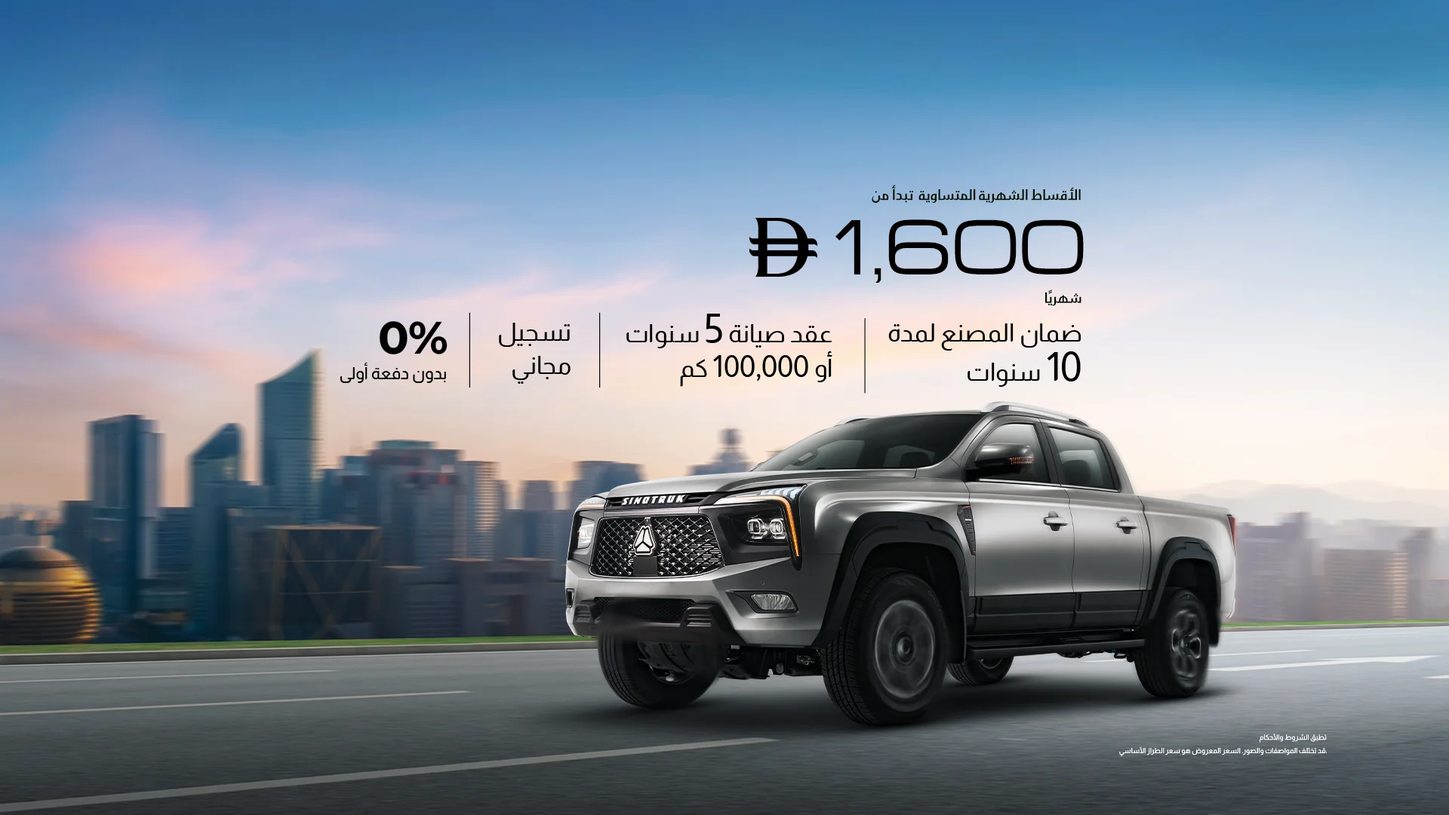
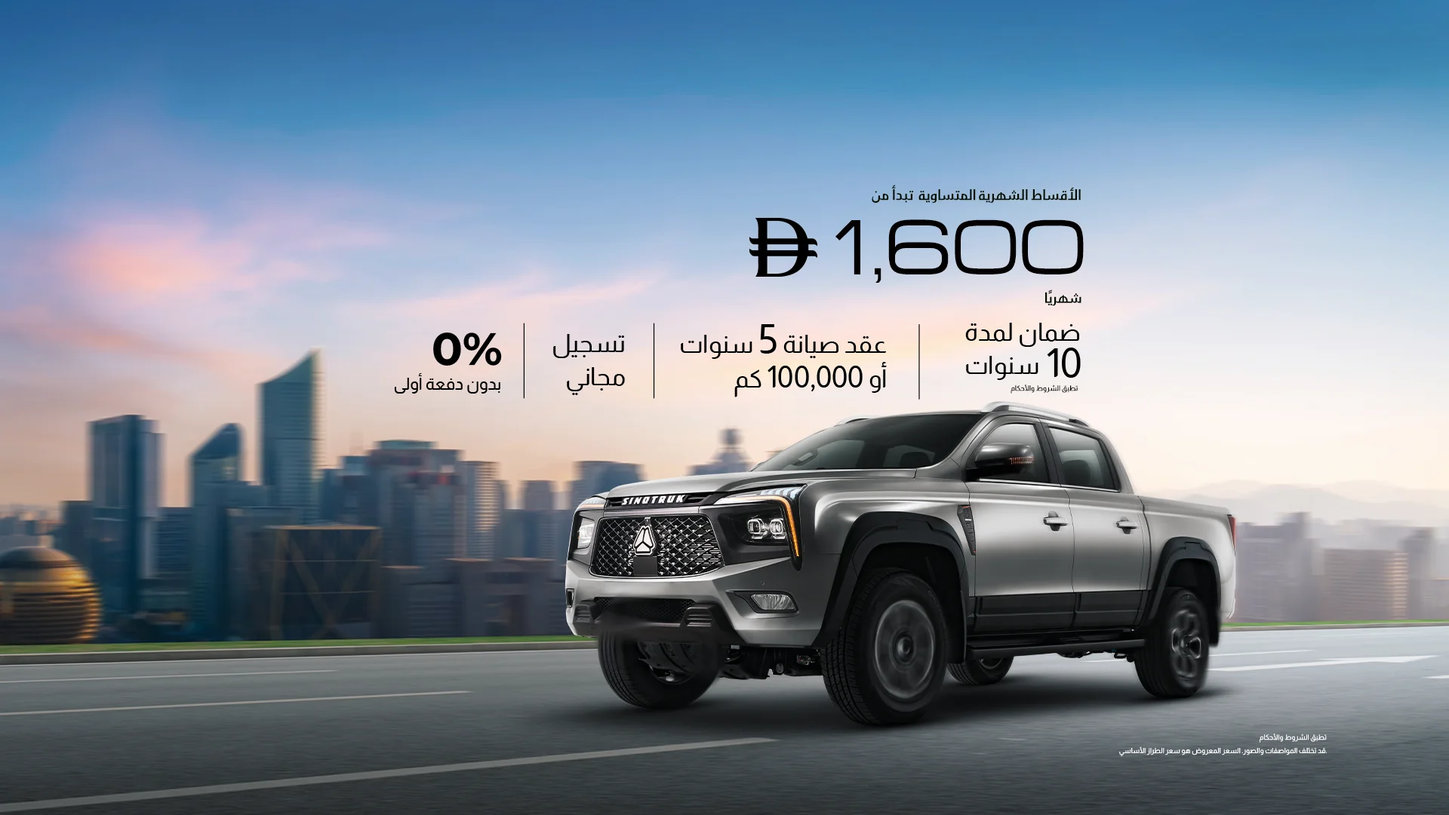
update 103

Changed region(s): [[0.25, 0.3969, 0.75, 0.4884]]

diff --git a/app/ar/(arabic-models)/models/bolden-s9-off-road/page.jsx b/app/ar/(arabic-models)/models/bolden-s9-off-road/page.jsx
@@ -53,9 +53,9 @@ export default function Page() {
         <WarrantyDisclaimerSection
                   leftImage="/assets/popup/s9-off-road-popup.webp"
                   title="ضمان وخدمات سينوترك بولدن"
-                  description="تأتي سيارة سينوتراك بولدن S9 للطرق الوعرة بضمان مصنع لمدة 10 سنوات، إضافة إلى باقة صيانة شاملة لمدة 5 سنوات أو 100,000 كيلومتر، أيهما يأتي أولاً، مما يجعلها خيارًا قويًا للسائقين الذين يبحثون عن المتانة والقدرة والقيمة طويلة الأمد في دولة الإمارات العربية المتحدة. يجمع طراز Bolden S9 بين قدرات 4x4 القوية على الطرق الوعرة وراحة متطورة وميزات عملية متعددة داخل الإمارات."
+                  description="تأتي سيارة سينوتراك بولدن S9 للطرق الوعرة بضمان لمدة 10 سنوات (5 سنوات من الشركة المصنعة و5 سنوات من شركة رويال سويس لتجارة السيارات)، إضافة إلى باقة صيانة شاملة لمدة 5 سنوات أو 100,000 كيلومتر، أيهما يأتي أولاً، مما يجعلها خيارًا قويًا للسائقين الذين يبحثون عن المتانة والقدرة والقيمة طويلة الأمد في دولة الإمارات العربية المتحدة. يجمع طراز Bolden S9 بين قدرات 4x4 القوية على الطرق الوعرة وراحة متطورة وميزات عملية متعددة داخل الإمارات."
                   description2="قم بزيارة صالة عرض رويال سويس اوتو تريدينج لمعرفة المزيد حول سينوتراك بولدن S9 Off-Road للطرق الوعرة ، واستكشاف مزايا الضمان والخدمات، وحجز تجربة قيادة، أو زيارة الموقع الرسمي mysinotruk.ae للحصول على التفاصيل الكاملة."
-                  description3="تأتي سيارة سينوتراك بولدن S9 للطرق الوعرة بضمان مصنع لمدة 10 سنوات، إضافة إلى باقة صيانة شاملة لمدة 5 سنوات أو 100,000 كيلومتر (أيهما يأتي أولاً)، ما يجعلها خيارًا مثاليًا ضمن فئة بيك أب ديزل 4x4 في الإمارات للسائقين الباحثين عن المتانة العالية، والأداء القوي في الظروف الصحراوية، وقيمة ملكية طويلة الأمد."
+                  description3="تأتي سيارة سينوتراك بولدن S9 للطرق الوعرة بضمان لمدة 10 سنوات (5 سنوات من الشركة المصنعة و5 سنوات من شركة رويال سويس لتجارة السيارات)، إضافة إلى باقة صيانة شاملة لمدة 5 سنوات أو 100,000 كيلومتر (أيهما يأتي أولاً)، ما يجعلها خيارًا مثاليًا ضمن فئة بيك أب ديزل 4x4 في الإمارات للسائقين الباحثين عن المتانة العالية، والأداء القوي في الظروف الصحراوية، وقيمة ملكية طويلة الأمد."
                   description4="يجمع طراز Bolden S9 بين قدرات الدفع الرباعي 4x4 المتقدمة على الطرق الوعرة لتناسب القيادة في الصحراء والبيئات القاسية، ومستوى راحة متطور للاستخدام اليومي، إلى جانب تجهيزات عملية تلائم احتياجات العمل والمغامرات، مما يجعله منافسًا قويًا في سوق سيارات البيك أب 4x4 متعددة الاستخدامات في الإمارات."
                   description5="للمزيد من التفاصيل حول المواصفات، خيارات الضمان والصيانة، وأسعار سيارات البيك أب التجارية والطرق الوعرة في الإمارات، يمكنكم زيارة صالة العرض المعتمدة أو الدخول إلى الموقع الرسمي mysinotruk.ae للاطلاع على المعلومات الكاملة وحجز تجربة قيادة."
                 />

diff --git a/app/ar/(arabic-models)/models/bolden-s6-commercial/page.jsx b/app/ar/(arabic-models)/models/bolden-s6-commercial/page.jsx
@@ -56,7 +56,7 @@ export default function Page() {
         <WarrantyDisclaimerSection
                                   leftImage="/assets/popup/s6commercial-popup.webp"
                                   title="ضمان وخدمات سينوترك بولدن"
-                                  description="تحظى سيارات البيك أب التجارية سينوتراك بولدن ببرنامج ملكية متكامل مصمم لدعم الأداء طويل الأمد وتعزيز الاعتمادية التشغيلية في سوق المركبات التجارية في الإمارات. تأتي المركبة بضمان مصنع لمدة 10 سنوات، إضافة إلى باقة صيانة شاملة لمدة 5 سنوات أو 100,000 كيلومتر (أيهما يأتي أولًا)، ما يوفر قيمة تنافسية قوية لرواد الأعمال، وأصحاب الشركات، ومديري أساطيل البيك أب التجارية الباحثين عن الكفاءة وتقليل تكاليف التشغيل."
+                                  description="تحظى سيارات البيك أب التجارية سينوتراك بولدن ببرنامج ملكية متكامل مصمم لدعم الأداء طويل الأمد وتعزيز الاعتمادية التشغيلية في سوق المركبات التجارية في الإمارات. تأتي المركبة بضمان لمدة 10 سنوات (5 سنوات من الشركة المصنعة و5 سنوات من شركة رويال سويس لتجارة السيارات)، إضافة إلى باقة صيانة شاملة لمدة 5 سنوات أو 100,000 كيلومتر (أيهما يأتي أولًا)، ما يوفر قيمة تنافسية قوية لرواد الأعمال، وأصحاب الشركات، ومديري أساطيل البيك أب التجارية الباحثين عن الكفاءة وتقليل تكاليف التشغيل."
                                   description2="يساهم هذا البرنامج في تعزيز ثقة العملاء ضمن قطاع سيارات البيك أب للأعمال في الإمارات، من خلال توفير دعم فني وخدمات ما بعد البيع تضمن استمرارية الأداء في مختلف بيئات العمل."
                                   description3="للاطلاع على مزايا الضمان والخدمات، ومعرفة المواصفات والأسعار الخاصة بفئة البيك أب التجارية والعملية في الإمارات، يمكن زيارة صالة العرض المعتمدة أو الدخول إلى الموقع الرسمي mysinotruk.ae للحصول على أحدث المعلومات حول الطرازات والعروض المتاحة وحجز تجربة قيادة."
                                 />

diff --git a/app/ar/(arabic-models)/models/bolden-s7-passenger/page.jsx b/app/ar/(arabic-models)/models/bolden-s7-passenger/page.jsx
@@ -56,7 +56,7 @@ export default function Page() {
         <WarrantyDisclaimerSection
                           leftImage="/assets/popup/s7passenger-popup.webp"
                           title="ضمان وخدمات سينوترك بولدن"
-                          description="تم تصميم طراز الركاب سينوتراك بولدن S7 ليواكب احتياجات القيادة اليومية بثقة واعتمادية طويلة الأمد في سوق سيارات البيك أب في الإمارات. يأتي هذا الطراز مع ضمان مصنع لمدة 10 سنوات، إضافة إلى باقة صيانة شاملة لمدة 5 سنوات أو 100,000 كيلومتر (أيهما يأتي أولًا)، ما يجعله خيارًا تنافسيًا ضمن فئة بيك أب عائلية متعددة الاستخدامات المناسبة للاستخدام الشخصي والمهني."
+                          description="تم تصميم طراز الركاب سينوتراك بولدن S7 ليواكب احتياجات القيادة اليومية بثقة واعتمادية طويلة الأمد في سوق سيارات البيك أب في الإمارات. يأتي هذا الطراز مع ضمان لمدة 10 سنوات (5 سنوات من الشركة المصنعة و5 سنوات من شركة رويال سويس لتجارة السيارات)، إضافة إلى باقة صيانة شاملة لمدة 5 سنوات أو 100,000 كيلومتر (أيهما يأتي أولًا)، ما يجعله خيارًا تنافسيًا ضمن فئة بيك أب عائلية متعددة الاستخدامات المناسبة للاستخدام الشخصي والمهني."
                           description2="يجمع الطراز بين قوة الأداء في فئة ديزل بيك أب 4x4 والتصميم الداخلي المريح الذي يلائم التنقل اليومي، والسفر العائلي، والرحلات الطويلة داخل المدن وعلى الطرق السريعة وفي البيئات الصحراوية. كما يوفر توازنًا بين القدرة العملية والمتانة، ليخدم احتياجات الأفراد ورواد الأعمال الباحثين عن سيارة بيك أب عملية واقتصادية في الإمارات."
                           description3="للمزيد من المعلومات حول المواصفات، الأسعار، وخيارات الضمان والصيانة لسيارات البيك أب التجارية والركاب، يمكنكم زيارة صالة عرض رويال سويس أوتو تريدنج أو الدخول إلى الموقع الرسمي mysinotruk.ae للاطلاع على التفاصيل الكاملة وحجز تجربة قيادة."
                         />

diff --git a/components/ar/home/AboutSinotrukSection.jsx b/components/ar/home/AboutSinotrukSection.jsx
@@ -7,11 +7,11 @@ export default function AboutSinotrukSection() {
       <div className={styles.container}>
         <div className={styles.left}>
           <h2 className={styles.title}>
-            حول سينوترك بولدن الإمارات
+            حول سينوترك بولدن ابوظبي - الإمارات العربية المتحدة
           </h2>
 
           <p className={styles.description}>
-             قامت شركة سينوتراك (Sinotruk) بتعيين رويال سويس أوتو تريدنج (Royal Swiss Auto Trading) كموزع حصري لمجموعة سيارات بيك اب سينوترك بولدن (Sinotruk Bolden) في دولة الإمارات العربية المتحدة، مما يعزز التزام العلامة التجارية طويل الأمد بسوق المركبات التجارية وسيارات الطرق الوعرة وسيارات الدفع الرباعي 4x4 والبيك اب في الدولة. وبدعم من عقود من الاستثمار العالمي في التصنيع المتقدم، والبحث والتطوير الداخلي، والشراكات الهندسية الدولية، تقدم سينوتراك خبرة مثبتة في المحركات، وأنظمة نقل الحركة، وأنظمة السلامة، ومتانة الهيكل إلى المنطقة.
+             قامت شركة سينوتراك (Sinotruk) بتعيين رويال سويس أوتو تريدنج (Royal Swiss Auto Trading) كموزع حصري لمجموعة سيارات بيك اب سينوترك بولدن (Sinotruk Bolden) في ابوظبي - الإمارات العربية المتحدة، مما يعزز التزام العلامة التجارية طويل الأمد بسوق المركبات التجارية وسيارات الطرق الوعرة وسيارات الدفع الرباعي 4x4 والبيك اب في الدولة. وبدعم من عقود من الاستثمار العالمي في التصنيع المتقدم، والبحث والتطوير الداخلي، والشراكات الهندسية الدولية، تقدم سينوتراك خبرة مثبتة في المحركات، وأنظمة نقل الحركة، وأنظمة السلامة، ومتانة الهيكل إلى المنطقة.
           </p>
 
           <p className={styles.description}>
@@ -23,7 +23,7 @@ export default function AboutSinotrukSection() {
           <div className={styles.imageWrap}>
             <Image
               src="/assets/home/sinotruk-about-us.webp"
-              alt="About Sinotruk Bolden UAE"
+              alt="About Sinotruk Bolden Abudhabi - UAE"
               fill
               className={styles.image}
               priority

diff --git a/app/(pages)/about-us/page.js b/app/(pages)/about-us/page.js
@@ -46,11 +46,11 @@ export default function Page() {
             </div>
 
             <div className={styles.topContent}>
-              <h3 className={styles.mainHeading}>SINOTRUK BOLDEN UAE</h3>
+              <h3 className={styles.mainHeading}>SINOTRUK BOLDEN ABUDHABI - UAE</h3>
 
               <div className={styles.topColumns}>
                 <p>
-                  Sinotruk has designated Royal Swiss Auto Trading as the exclusive distributor of the Sinotruk Bolden range in the UAE, reinforcing the brand’s long-term commitment to the region’s commercial and off-road vehicle market. Backed by decades of global investment in advanced manufacturing, in-house research and development, and international engineering partnerships, Sinotruk brings proven expertise in engines, drivetrains, safety systems, and chassis durability to the region.
+                  Sinotruk has designated Royal Swiss Auto Trading as the exclusive distributor of the Sinotruk Bolden range in the Abudhabi - UAE, reinforcing the brand’s long-term commitment to the region’s commercial and off-road vehicle market. Backed by decades of global investment in advanced manufacturing, in-house research and development, and international engineering partnerships, Sinotruk brings proven expertise in engines, drivetrains, safety systems, and chassis durability to the region.
                 </p>
 
                 <p>
@@ -146,7 +146,7 @@ export default function Page() {
               </h3>
 
               <p>
-                Royal Swiss Auto Trading is a UAE-based automotive enterprise
+                Royal Swiss Auto Trading is a Abudhabi, UAE-based automotive enterprise
                 founded on the principles of quality, reliability, and long-term
                 customer confidence. With a growing footprint across the region,
                 the company operates at the intersection of automotive retail,

diff --git a/app/models/bolden-s7-passenger/page.jsx b/app/models/bolden-s7-passenger/page.jsx
@@ -67,7 +67,7 @@ export default function Page() {
         <WarrantyDisclaimerSection
                   leftImage="/assets/popup/s7passenger-popup.webp"
                   title="Sinotruk Bolden Warranty & Services"
-                  description="The Sinotruk Bolden S7 Passenger is designed for confident everyday driving and long-term dependability. It is offered with a 10-year manufacturer warranty, along with an inclusive 5-year or 100,000 km service package, whichever comes first, making it a compelling choice for both personal and professional use in the UAE. It blends robust capability with comfort-focused design for daily commutes, family travel, and extended journeys."
+                  description="The Sinotruk Bolden S7 Passenger is designed for confident everyday driving and long-term dependability. It is offered with a 10-year warranty (5 Year Manufacture & 5 Year Royal Swiss Auto Trading), along with an inclusive 5-year or 100,000 km service package, whichever comes first, making it a compelling choice for both personal and professional use in the UAE. It blends robust capability with comfort-focused design for daily commutes, family travel, and extended journeys."
                   description2="Visit Royal Swiss Auto Trading showroom to learn more about the Sinotruk Bolden Passenger, explore warranty and service benefits, and schedule a test drive."
                 />
 

diff --git a/components/home/AboutSinotrukSection.jsx b/components/home/AboutSinotrukSection.jsx
@@ -7,11 +7,11 @@ export default function AboutSinotrukSection() {
       <div className={styles.container}>
         <div className={styles.left}>
           <h2 className={styles.title}>
-            About Sinotruk Bolden UAE
+            About Sinotruk Bolden Abudhabi - UAE
           </h2>
 
           <p className={styles.description}>
-            Sinotruk has designated Royal Swiss Auto Trading as the exclusive distributor of the Sinotruk Bolden range in the UAE, reinforcing the brand’s long-term commitment to the region’s commercial and off-road vehicle market. Backed by decades of global investment in advanced manufacturing, in-house research and development, and international engineering partnerships, Sinotruk brings proven expertise in engines, drivetrains, safety systems, and chassis durability to the region.
+            Sinotruk has designated Royal Swiss Auto Trading as the exclusive distributor of the Sinotruk Bolden range in the Abudhabi - UAE, reinforcing the brand’s long-term commitment to the region’s commercial and off-road vehicle market. Backed by decades of global investment in advanced manufacturing, in-house research and development, and international engineering partnerships, Sinotruk brings proven expertise in engines, drivetrains, safety systems, and chassis durability to the region.
           </p>
 
           <p className={styles.description}>

diff --git a/app/models/bolden-s6-commercial/page.jsx b/app/models/bolden-s6-commercial/page.jsx
@@ -67,7 +67,7 @@ export default function Page() {
         <WarrantyDisclaimerSection
                           leftImage="/assets/popup/s6commercial-popup.webp"
                           title="Sinotruk Bolden Warranty & Services"
-                          description="The Sinotruk Bolden Commercial is backed by a detailed ownership program designed to support long-term performance and operational reliability. The vehicle comes with a 10-year manufacturer warranty, along with an inclusive 5-year or 100,000 km service package, whichever comes first, offering strong value for commercial operators and fleet customers across the UAE."
+                          description="The Sinotruk Bolden Commercial is backed by a detailed ownership program designed to support long-term performance and operational reliability. The vehicle comes with a 10-year warranty (5 Year Manufacture & 5 Year Royal Swiss Auto Trading), along with an inclusive 5-year or 100,000 km service package, whichever comes first, offering strong value for commercial operators and fleet customers across the UAE."
                           description2="Visit Royal Swiss Auto Trading showroom to learn more about the Sinotruk Bolden Commercial, explore warranty and service benefits, and schedule a test drive."
                         />
 

diff --git a/components/ar/home/WhoWeAreSection.jsx b/components/ar/home/WhoWeAreSection.jsx
@@ -10,7 +10,7 @@ export default function WhoWeAreSection() {
         <div className={styles.titlebox}>
             <h2 id="who-title" className={styles.title}>من نحن</h2>
             <p className={styles.kicker}>
-              نحن شركة رويال سويس أوتو تريدينغ، الموزع المعتمد لشركة سينوتراك في الإمارات العربية المتحدة. نحن نقدم مركبات مصممة لتوفير القوة والراحة والموثوقية. نحن وجهتك المثالية للحصول على مركبات عالمية المستوى ودعم ما بعد البيع الاحترافي.
+              نحن شركة رويال سويس أوتو تريدينغ، الموزع المعتمد لشركة سينوتراك في ابوظبي - الإمارات العربية المتحدة. نحن نقدم مركبات مصممة لتوفير القوة والراحة والموثوقية. نحن وجهتك المثالية للحصول على مركبات عالمية المستوى ودعم ما بعد البيع الاحترافي.
             </p>
             <p className={styles.kicker2}>
               اكتشف مركبات بولدن المصممة للعمل والعائلة والمغامرة.

diff --git a/app/models/bolden-s9-off-road/page.jsx b/app/models/bolden-s9-off-road/page.jsx
@@ -63,7 +63,7 @@ export default function Page() {
       <WarrantyDisclaimerSection
         leftImage="/assets/popup/s9-off-road-popup.webp"
         title="Sinotruk Bolden Warranty & Services"
-        description="The Sinotruk Bolden S9 Off-Road comes with a 10-year manufacturer warranty and an inclusive 5-year or 100,000 km service package, whichever comes first, making it a strong choice for drivers who demand durability, capability, and long-term value in the UAE. Bolden S9 combines powerful off-road capability with refined comfort and practical utility features across the UAE."
+        description="The Sinotruk Bolden S9 Off-Road comes with a 10-year warranty (5 Year Manufacture & 5 Year Royal Swiss Auto Trading) and an inclusive 5-year or 100,000 km service package, whichever comes first, making it a strong choice for drivers who demand durability, capability, and long-term value in the UAE. Bolden S9 combines powerful off-road capability with refined comfort and practical utility features across the UAE."
         description2="Visit Royal Swiss Auto showroom to learn more about the Sinotruk Bolden Off-Road, explore warranty and service benefits, and schedule a test drive."
       />
 

diff --git a/components/ar/Footer.jsx b/components/ar/Footer.jsx
@@ -19,7 +19,7 @@ export default function FooterAr() {
               className={styles.logo}
             />
             <p className={styles.blurb}>
-              رويال سويس أوتو تريدينغ هي الوكيل والموزع المعتمد لشركة سينوتراك بولدن في الإمارات العربية المتحدة. تم تصميم مركباتنا الصالحة لجميع التضاريس لتقديم أداء عالٍ. استمتع بثقة في كل رحلة، مدعومة بدعم الخبراء.
+              رويال سويس أوتو تريدينغ هي الوكيل والموزع المعتمد لشركة سينوتراك بولدن في ابوظبي - الإمارات العربية المتحدة. تم تصميم مركباتنا الصالحة لجميع التضاريس لتقديم أداء عالٍ. استمتع بثقة في كل رحلة، مدعومة بدعم الخبراء.
             </p>
           </div>
 

diff --git a/components/home/WhoWeAreSection.jsx b/components/home/WhoWeAreSection.jsx
@@ -10,7 +10,7 @@ export default function WhoWeAreSection() {
         <div className={styles.titlebox}>
             <h2 id="who-title" className={styles.title}>WHO WE ARE</h2>
             <p className={styles.kicker}>
-              We are Royal Swiss Auto Trading, the authorized Sinotruk dealer in the UAE. We deliver vehicles designed for power, comfort, and reliability.Your destination for world-class vehicles and professional after-sales support.
+              We are Royal Swiss Auto Trading, the authorized Sinotruk dealer in the Abudhabi - UAE. We deliver vehicles designed for power, comfort, and reliability.Your destination for world-class vehicles and professional after-sales support.
             </p>
             <p className={styles.kicker2}>
               Discover Bolden vehicles built for work, family, and adventure.
